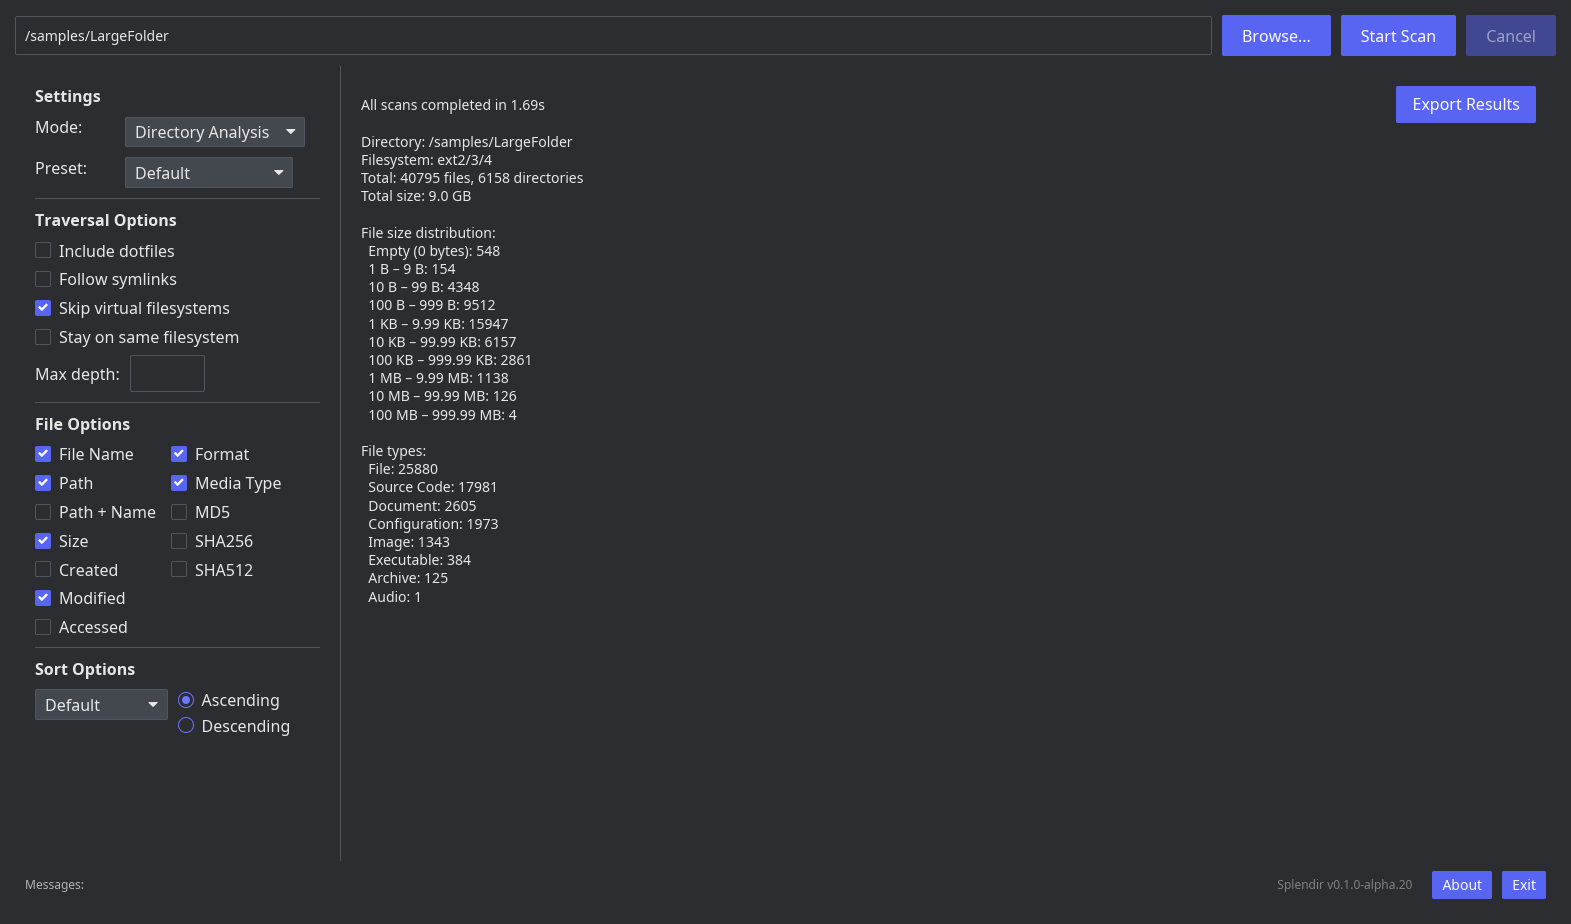
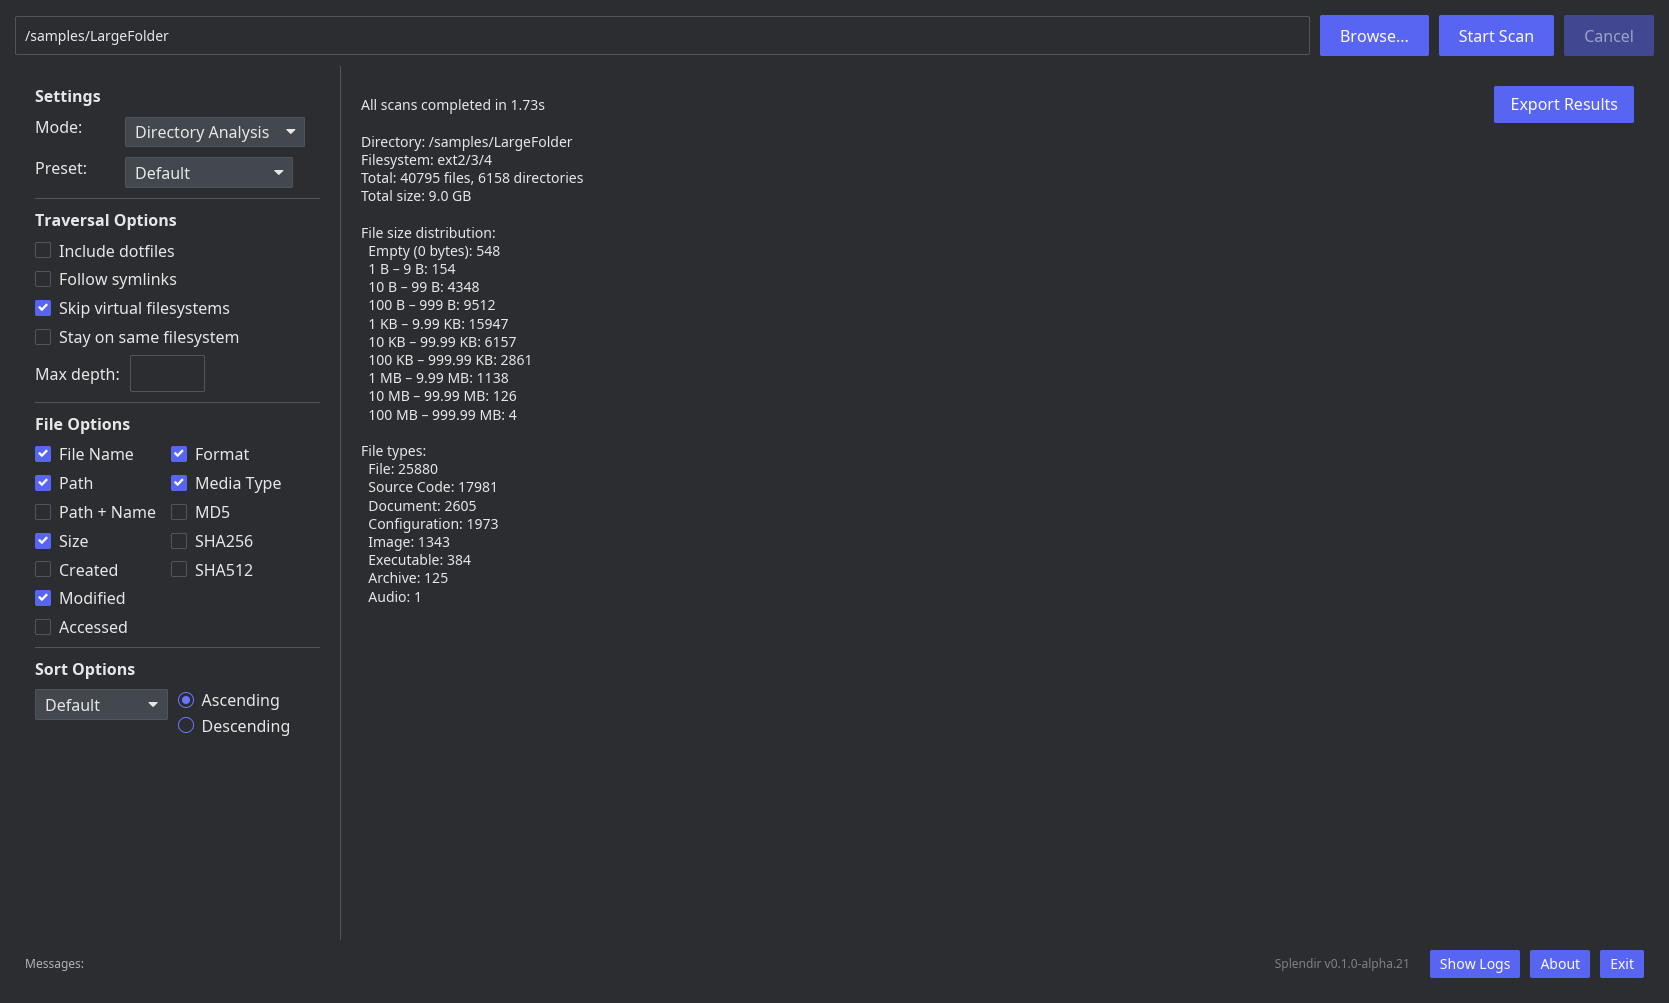
Added permissions errors reporting to Directory Analysis view: - Replicate log errors, limiting to directories and files where permissions   errors are explicitly reported

diff --git a/src/lib.rs b/src/lib.rs
@@ -179,6 +179,7 @@ pub fn analyze_directory(path: &Path, include_dotfiles: bool, max_depth: Option<
         path: path.to_path_buf(),
         volume_info,
         skipped_virtual_filesystems: Vec::new(),
+        permission_errors: Vec::new(),
     })
 }
 
@@ -226,11 +227,15 @@ pub fn analyze_directory_with_options(
 ) -> Result<DirectoryAnalysis, ScanError> {
     use scanner::MountInfo;
     
+    // Create error collector to track permission/access errors
+    let error_collector = Arc::new(std::sync::Mutex::new(Vec::new()));
+    
     let scanner = DirectoryScanner::new()
         .include_dotfiles(options.include_dotfiles)
         .skip_virtual_filesystems(options.skip_virtual_filesystems)
         .stay_on_filesystem(options.stay_on_filesystem)
-        .max_depth(options.max_depth.unwrap_or(50));
+        .max_depth(options.max_depth.unwrap_or(50))
+        .error_collector(error_collector.clone());
     
     // For analysis, we'll divide progress into three phases
     let stats_callback = {
@@ -270,6 +275,12 @@ pub fn analyze_directory_with_options(
     
     progress_callback(1.0, "Analysis completed".to_string());
     
+    // Extract permission errors from collector
+    let permission_errors = error_collector
+        .lock()
+        .map(|guard| guard.clone())
+        .unwrap_or_default();
+    
     Ok(DirectoryAnalysis {
         stats,
         tree,
@@ -277,6 +288,7 @@ pub fn analyze_directory_with_options(
         path: path.to_path_buf(),
         volume_info,
         skipped_virtual_filesystems,
+        permission_errors,
     })
 }
 
@@ -289,6 +301,7 @@ pub struct DirectoryAnalysis {
     pub path: PathBuf,
     pub volume_info: Option<filesystem::VolumeInfo>,
     pub skipped_virtual_filesystems: Vec<PathBuf>,
+    pub permission_errors: Vec<PathBuf>,
 }
 
 impl DirectoryAnalysis {
@@ -347,6 +360,14 @@ impl DirectoryAnalysis {
                 .map(|p| p.display().to_string())
                 .collect();
             summary.push_str(&format!("\nSkipped virtual file systems at: {}\n", paths.join(", ")));
+        }
+        
+        // Permission errors (only if non-empty)
+        if !self.permission_errors.is_empty() {
+            summary.push_str("\nPermission errors occurred processing the following files and/or directories:\n");
+            for error_path in &self.permission_errors {
+                summary.push_str(&format!("{}\n", error_path.display()));
+            }
         }
         
         summary

diff --git a/src/scanner.rs b/src/scanner.rs
@@ -1,10 +1,10 @@
 use std::fs;
-use std::path::Path;
+use std::path::{Path, PathBuf};
 use std::io::{self, Read};
 use std::time::SystemTime;
 use sha2::{Sha256, Sha512, Digest};
 use walkdir::WalkDir;
-use std::sync::Arc;
+use std::sync::{Arc, Mutex};
 use std::sync::atomic::{AtomicUsize, AtomicBool, Ordering};
 use rayon::prelude::*;
 use std::collections::HashSet;
@@ -52,6 +52,8 @@ pub struct DirectoryScanner {
     pub skip_virtual_filesystems: bool,
     /// Stay on the same filesystem (don't cross mount boundaries)
     pub stay_on_filesystem: bool,
+    /// Optional collector for permission/access errors encountered during scanning
+    pub error_collector: Option<Arc<Mutex<Vec<PathBuf>>>>,
 }
 
 impl std::fmt::Debug for DirectoryScanner {
@@ -68,6 +70,7 @@ impl std::fmt::Debug for DirectoryScanner {
             .field("skip_virtual_filesystems", &self.skip_virtual_filesystems)
             .field("stay_on_filesystem", &self.stay_on_filesystem)
             .field("cancellation_flag", &"<Arc<AtomicBool>>")
+            .field("error_collector", &"<Option<Arc<Mutex<Vec<PathBuf>>>>>")
             .finish()
     }
 }
@@ -86,6 +89,7 @@ impl Default for DirectoryScanner {
             cancellation_flag: None,
             skip_virtual_filesystems: true,  // Safe default
             stay_on_filesystem: false,
+            error_collector: None,
         }
     }
 }
@@ -147,6 +151,11 @@ impl DirectoryScanner {
     
     pub fn stay_on_filesystem(mut self, stay: bool) -> Self {
         self.stay_on_filesystem = stay;
+        self
+    }
+    
+    pub fn error_collector(mut self, collector: Arc<Mutex<Vec<PathBuf>>>) -> Self {
+        self.error_collector = Some(collector);
         self
     }
     
@@ -612,6 +621,13 @@ impl DirectoryScanner {
                             error = %e,
                             "Error building tree node"
                         );
+                        
+                        // Collect error path if collector is present
+                        if let Some(ref collector) = self.error_collector {
+                            if let Ok(mut errors) = collector.lock() {
+                                errors.push(child_path.clone());
+                            }
+                        }
                     }
                 }
             }

diff --git a/README.md b/README.md
@@ -86,7 +86,16 @@ The **Detailed File List** view is exported as a UTF-8 encoded CSV file (this ca
 
 ![Splendir Directory Analysis View](assets/sds-analysis.png)
 
-The **Directory Analysis** view provides some basic information about the total size of the directory scanned and the types and counts of files encountered. This view also indicates the filesystem type for the base directory associated with the scan, and provides a simple distribution of the file sizes encountered.
+The **Directory Analysis** view provides some basic information about the total size of the directory scanned and the types and counts of files encountered. This view also indicates the filesystem type for the base directory associated with the scan, and provides a simple distribution of the file sizes encountered. In certain scan scenarios involving live file systems, directories containing virtual ("special") files related to system operations may be skipped. In cases where the Splendir application does not have the requisite permissions to process a particular file or directory, those cases will be logged and noted in the Directory Analysis results view. These situations are described in further detail below.
+
+![Splendir Directory Analysis Warnings](assets/sds-warnings.png)
+
+Splendir makes an effort not to elide or obfuscate information about which files and directory entries on a filesystem have been skipped, whether those entries are likely irrelevant to a preservation process (virtual files on a live filesystem) or potentially more important (failed to process because the current user running the Splendir application does not have permissions to access them). The above screenshot shows Splendir recording both of these cases - virtual filesystems and special files areas skipped, and regular files not processed due to permissions issues - in the Directory Analysis output.
+
+![Splendir Log Access](assets/sds-logs.png)
+
+Splendir maintains a daily log in the ``.splendir`` directory of the user's home directory, the content of which is maintained for 30 days (or until the next time the Splendir application is launched after 30 days). These logs include more detailed infomation about the operation of the Splendir tool in addition to directory skip notifications and permissions errors that are reported in the **Directory Analysis** output.
+
 
 ### Build (Developers and Contributors)
 
